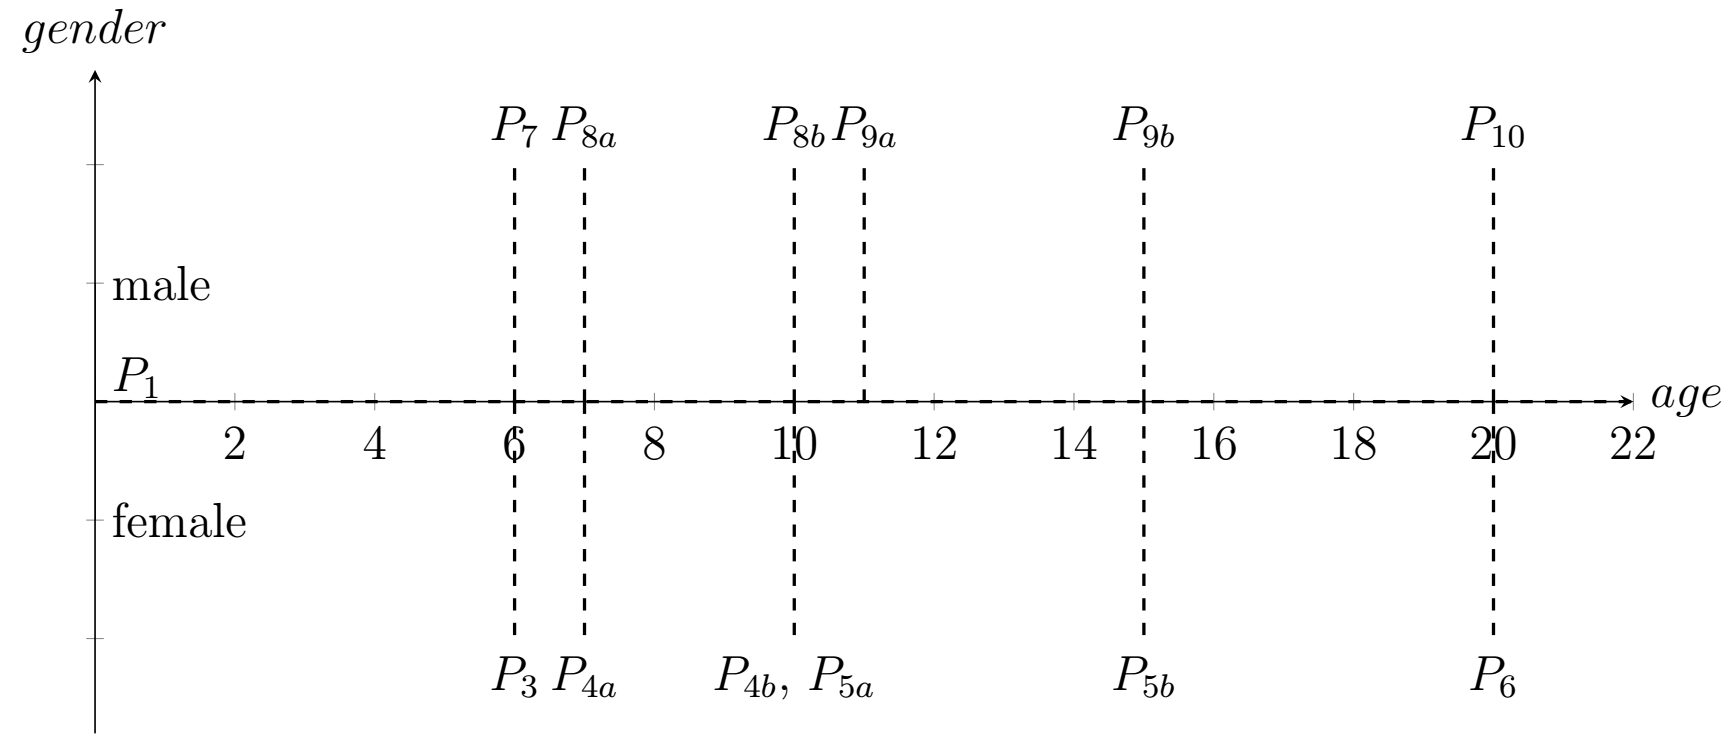
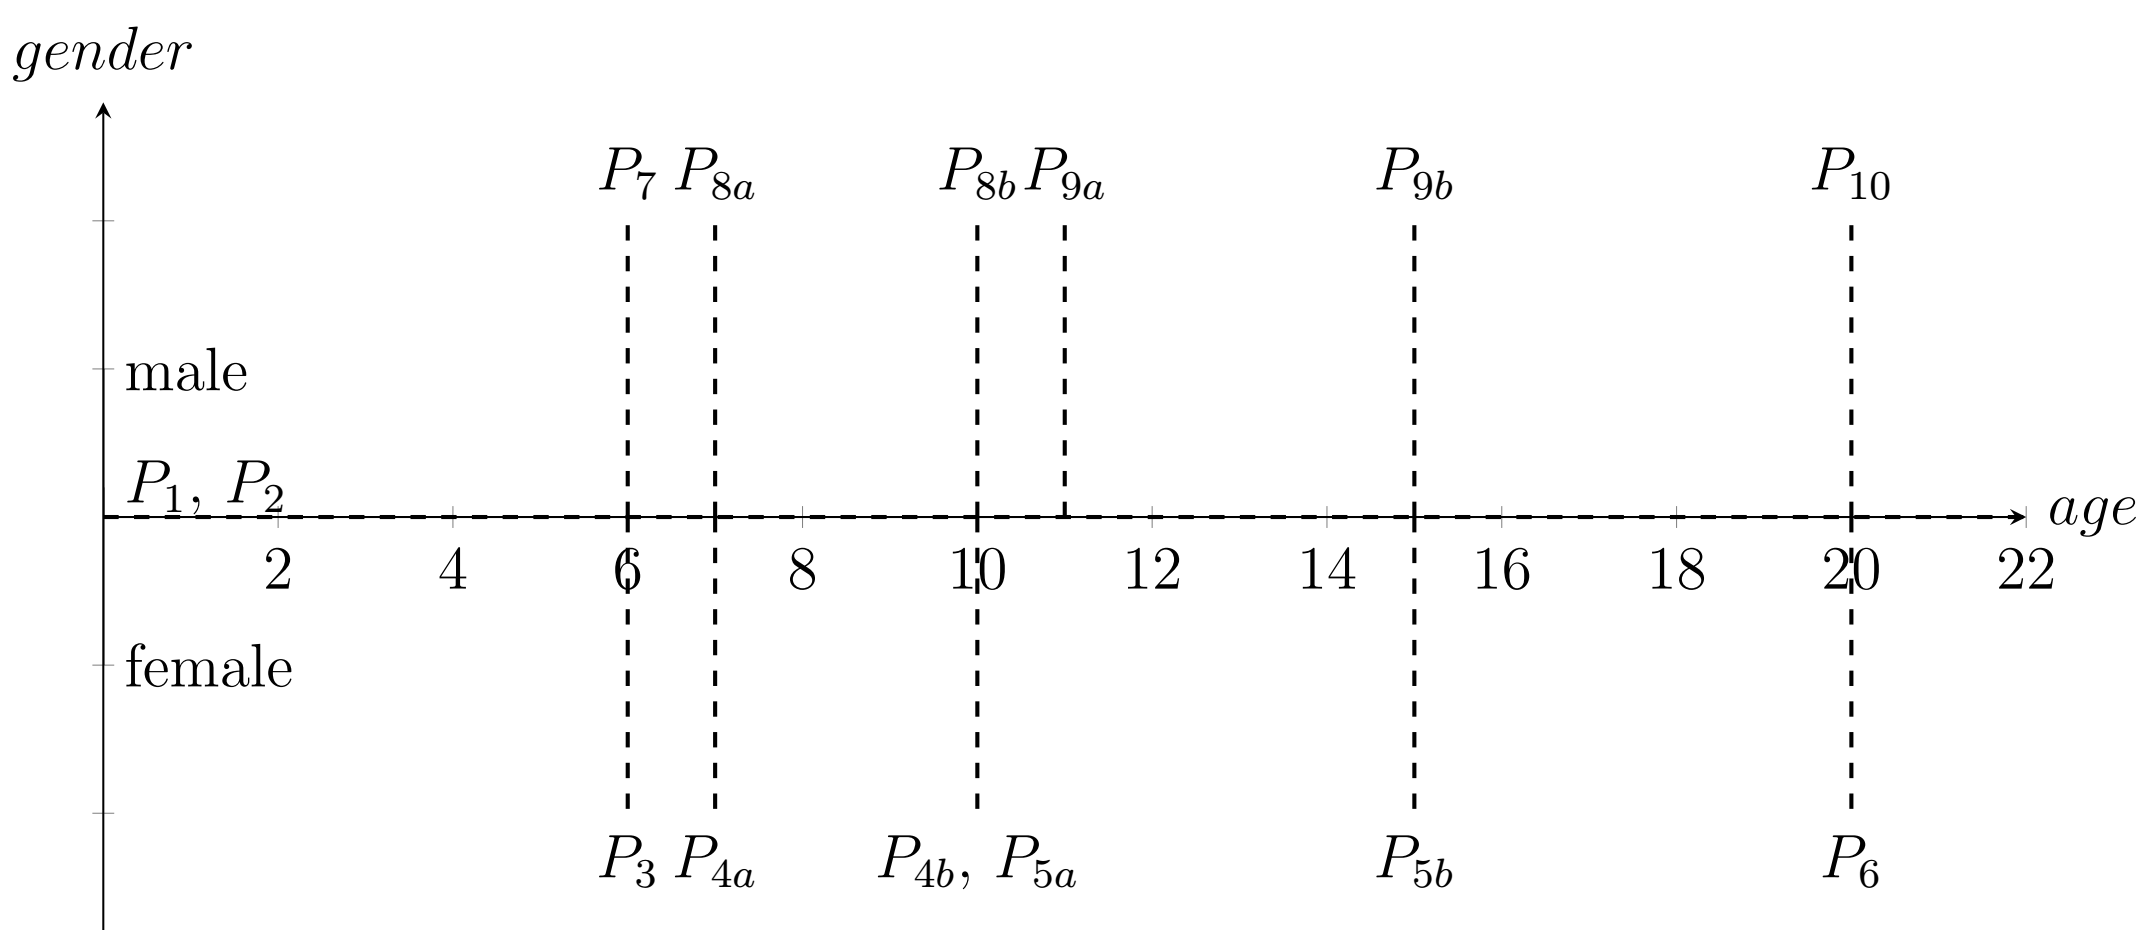
Add missing predicate

diff --git a/doc/domain-graph/domain-graph.tex b/doc/domain-graph/domain-graph.tex
@@ -8,8 +8,6 @@
 \usepgfplotslibrary{fillbetween}
 \usetikzlibrary{patterns}
 \pgfplotsset{compat=1.16}
-\usetikzlibrary{external}
-\tikzexternalize[prefix=./dir]
 
 \begin{document}
 \begin{tikzpicture}
@@ -30,7 +28,7 @@
 		node [right] {male};
 	\addplot
 		[mark=none] coordinates {(0, 0) (0, 1)}
-		node [right] {$P_1$};
+		node [right] {$P_1$, $P_2$};
 	\addplot
 		[mark=none, color=black, dashed, thick]
 		coordinates {(0, 0) (25, 0)};
